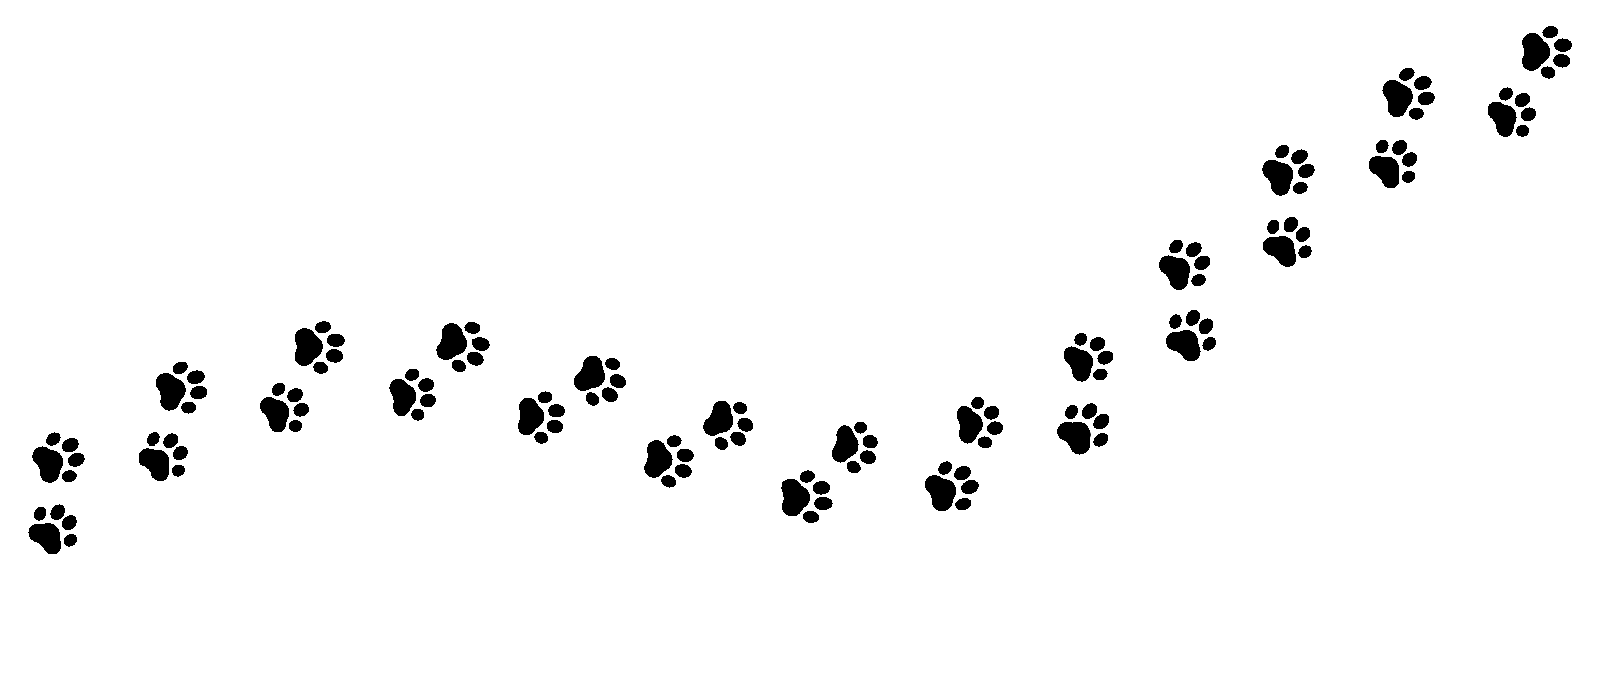
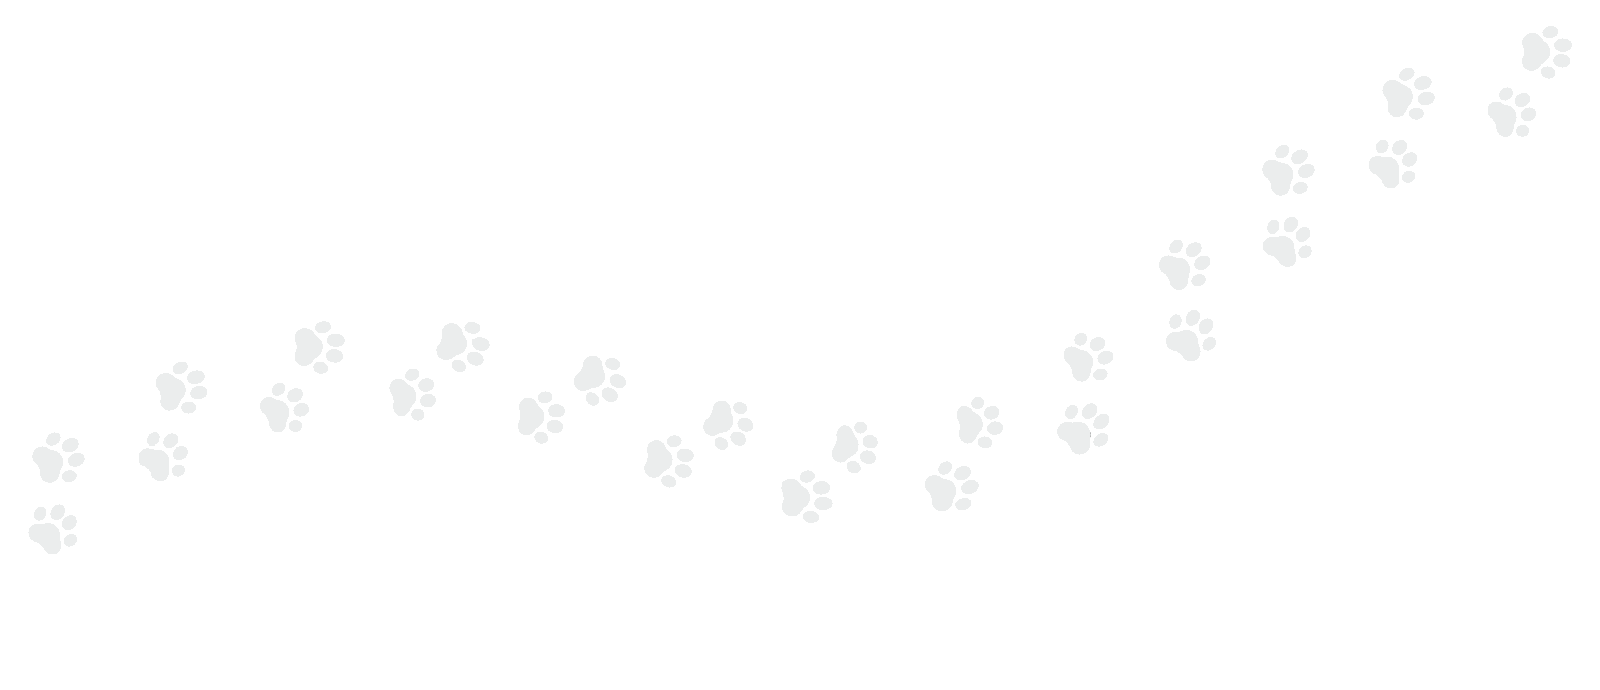
commit 06

diff --git a/PI-Dogs-main/client/src/reducer/reducer.js b/PI-Dogs-main/client/src/reducer/reducer.js
@@ -51,11 +51,14 @@ function rootReducer(state = initialState, action)
             const allDogsTemp= state.allDogs;
             const filteratemp= action.payload==='all'? allDogsTemp:
             allDogsTemp.filter(e=>{
+              
                 if(typeof(e.temperaments)==='string')return e.temperaments.includes(action.payload)
                 if(Array.isArray(e.temperaments)){
                     let filterName= e.temperaments.map(e=> e.name)
                     return filterName.includes(action.payload)
                 }
+               
+               
                
                 return 'no se encontro la raza'
             })
@@ -73,30 +76,30 @@ function rootReducer(state = initialState, action)
             }      
         case 'ORDER':
             const filterOrder=state.allDogs;
-            const order=action.payload ==='all'? state.allDogs: action.payload === 'upward' ? filterOrder.sort((a, b)=>{
+            const order= action.payload === 'falling' ? filterOrder.sort((a, b)=>{
                 if(a.name > b.name){
-                    return 1
+                    return -1
                 }
                 if(b.name > a.name){
-                    return -1
+                    return 1
                 }
                 return 0
             }):filterOrder.sort((a, b)=>{
                 if(a.name > b.name){
-                    return -1
+                    return 1
                 }
                 if(b.name > a.name){
-                    return 1
+                    return -1
                 }
                 return 0
             })
             return{
                 ...state,
-                dogs:order
+                dogs:action.payload ==='all'? state.allDogs:order
             }
         case 'ORDER_WEIGHT':
            
-            const weightOrder= action.payload=== 'min' ? state.allDogs.sort(function(a, b){
+            const weightOrder=action.payload === 'all' ? state.allDogs: action.payload === 'min' ? state.allDogs.sort(function(a, b){
               return parseInt(a.weightMax)- parseInt(b.weightMax)
 
             })
@@ -109,7 +112,7 @@ function rootReducer(state = initialState, action)
             })
             return{
                 ...state,
-                dogs:action.payload=== 'all' ? state.allDogs:weightOrder
+                dogs:weightOrder
             }
 
         default:

diff --git a/PI-Dogs-main/client/src/styles/Home.module.css b/PI-Dogs-main/client/src/styles/Home.module.css
@@ -2,10 +2,10 @@
 
   width: 100%;
   height: 200px;
-  /* overflow: hidden; */
+ /* background-color: rgba(240, 248, 255, 0.423); */
   display: block;
   position: relative;
-  box-shadow: 5px 8px 12px black;
+  box-shadow: 5px 8px 12px rgb(44, 44, 44);
   transition: all 0.3s ease-in-out;
   display: inline-block;
 
@@ -15,37 +15,42 @@
 }
 
 .searchbar {
-  margin-top: 15px;
-  margin-left: 50px;
+
   display: flex;
   flex-wrap: wrap;
-
+/*   background-color: rgba(10, 136, 246, 0.423); */
 
 }
-
+.search{
+  margin: 10px;
+  width: 30%;
+}
 .created {
-
+margin-top: 30px;
+margin-left: 20px;
   position: relative;
   text-decoration: none;
   color: white;
 }
 
 .divContainer {
-  width: 40%;
-  height: 100px;
-
+  margin-top: 30px;
+margin-left: 60px;
+  width: 30%;
+  /* background-color: rgba(255, 240, 252, 0.423); */
   border-radius: 3px;
   color: white;
-
-  display: inline-block;
+  justify-content: end;
+  display: block;
   box-sizing: border-box;
-  margin: 15px 150px;
+
 
   padding: 3px;
 
 }
 
 .link {
+  width: 30%;
   margin: 0;
   text-decoration: none;
 }
@@ -58,7 +63,7 @@
 
 .label {
   width: 80%;
-
+color: rgb(252, 252, 252);
   text-align: left;
 }
 
@@ -71,12 +76,16 @@
 .select {}
 
 .btn {
-  margin: 5px;
+  margin: 35px;
   width: auto;
   height: auto;
 }
 
 .gif {
   margin-top: 20%;
+  margin-left: 23%;
   width: 50%;
+  height: 80%;
+border-radius:46% 54% 48% 52% / 63% 86% 14% 37%  ;
+  box-shadow:0 8px  10px  rgba(251, 252, 252, 0.31);
 }

diff --git a/PI-Dogs-main/client/src/styles/DogDetail.module.css b/PI-Dogs-main/client/src/styles/DogDetail.module.css
@@ -66,11 +66,11 @@ h1{
 .personajes{
     width: 1170px;
     height: 500px;
-    margin:10px 10px 50px;
+   /*  margin:10px 10px 50px; */
     display: flex;
     align-items: center;
     justify-content: center;
-    background-image: url('../image/huesos2.jpg');
+    background-image: url('../image/huellas.png');
     background-repeat:no-repeat;
     background-position-x:center;
     background-position-y:center;
@@ -89,22 +89,29 @@ h1{
         box-shadow: 5px 8px 12px black;
       }
       .contenedorText {
+        width: 400px;
+        height: 349px;
+        
+       
          text-align: center; 
-         padding: 40px;
+         padding: 10px;
          font-family: Arial, Helvetica, sans-serif;
          font-weight: 400;
          line-height: 1.5rem;
          color: rgb(73, 72, 72);
       }
       .name{
+        /* margin: 5px;
+        width: 45%; */
+       margin-top: 0;
         color:white;
         font-size: 1.5rem;
-        font-weight: 600;
-        margin-bottom: 20px;
+       /*  font-weight: 600; */
+      /*   margin-bottom: 20px; */
       }
     .text{
-        width: 400px;
-        height: 349px;
+      /*   */
+      margin: 0%;
         padding: 5px;
     background-color: #f5c565e2;
     border-radius: 10px;

diff --git a/PI-Dogs-main/client/src/components/Home.jsx b/PI-Dogs-main/client/src/components/Home.jsx
@@ -79,9 +79,11 @@ export default function Home()
       !allCharacters?<img src={gif} className={style.gif}  alt='gif'/>:
     <div className={style.searchbar}>
     <Link className={style.link} to='/dogs'><h3 className={style.created}>Create your dog breed</h3></Link>
-    <div id='search'>
+    <div className='search'>
       <SearchBar/>
-      <button className={style.btn} onClick={reloadClick}>Reload</button>
+      <div className={style.btn}>
+      <button  onClick={reloadClick}>Reload</button>
+      </div>
     </div>
     <div className={style.divContainer}>
     <div className={style.filters}>
@@ -110,8 +112,8 @@ export default function Home()
         <label className={style.label}>Order alphabetically  </label>
           <select  className={style.select} name="created" id="dogCreated" onChange={(e)=>orderChange(e)}>
             <option value={'all'}>All the dogs</option>
-            <option value={'upward'}>A-Z</option>
             <option value={'falling'}>Z-A</option>
+            <option value={'upward'}>A-Z</option>
           </select>
         </div>
         <div className={style.filters}>

diff --git a/PI-Dogs-main/client/src/styles/LandingPage.module.css b/PI-Dogs-main/client/src/styles/LandingPage.module.css
@@ -1,25 +1,28 @@
 .contain {
-    margin:0;
-   -webkit-font-smoothing: antialiased;
-    -moz-osx-font-smoothing: grayscale;
-    height: 630px;
-    background-image:url('../image/pexels-andy-7440455\ \(2\)\ \(2\).jpg');
+  width: 100%;
+   /* -webkit-font-smoothing: antialiased;
+    -moz-osx-font-smoothing: grayscale; */
+    height: 100%;
+    background-image:url('../image/dogs.jpg' );
     background-repeat:no-repeat;
-    background-position-x:center;
-    background-position-y:center;
-    background-size:cover; 
+    background-position:center center;
+   background-attachment: fixed;
+    background-size:contain; 
+   position: absolute;
     }
    
  
     .btn {
-     margin-top: 500px;
+     margin-top: 470px;
+     margin-left: 52%;
      border: none;
-     background: #7e3321;
+     position: relative;
+     
      color: rgb(6, 6, 6);
-     width: 75px;
-     height: 35px;
+     width: 90px;
+     height: 55px;
      border-radius: 2px;
-     box-shadow: 5px 8px 12px black;
+     
      transition:all 0.3s ease-in-out ;
                
     }

diff --git a/PI-Dogs-main/client/src/styles/Paginado.module.css b/PI-Dogs-main/client/src/styles/Paginado.module.css
@@ -3,8 +3,8 @@
     width: 100%;
     height: 30px;
     display: block;
-    margin: 15px 10px;
-    
+    margin: 5% 25%;
+    flex-wrap: wrap;
   }
   
   
@@ -22,14 +22,17 @@
     transform: scale(1.1) ;
     border-radius: 2px;
     cursor: pointer;
-    box-shadow: 5px 8px 12px black;
+    box-shadow: 5px 8px 12px #fbbd9724;
     transition:all 0.3s ease-in-out ;
+    display:inline-flex;
+
+    
 }
-/* #miBoton { 
+#miBoton { 
   padding: 30px; 
   background: light-gray; 
-  color: black; 
-}  */
+  color: rgb(248, 243, 243); 
+} 
  
 .btn-visited { 
   padding: 30px; 

diff --git a/PI-Dogs-main/client/src/styles/Dogs.module.css b/PI-Dogs-main/client/src/styles/Dogs.module.css
@@ -9,7 +9,7 @@
     height: 300px;
     overflow: hidden;
     position: relative;
-    box-shadow: 5px 8px 12px black;
+    box-shadow: 5px 8px 12px rgba(148, 148, 148, 0.483);
     cursor: pointer;
     transition: all 0.3s ease-in-out;
     display: inline-block;
@@ -30,7 +30,7 @@
     border-radius: 30px;
     background-image: url('../image/defaultDB.jpg');
     border-radius: 8px;
-    box-shadow: 0 2px 2px rgba(0, 0, 0, 0.2);
+    box-shadow: 0 2px 2px #fbbd973c;
     overflow: hidden;
     margin: 20px;
     text-align: center;

diff --git a/PI-Dogs-main/client/src/components/LandingPage.jsx b/PI-Dogs-main/client/src/components/LandingPage.jsx
@@ -1,13 +1,13 @@
 import React from 'react';
 import { Link } from 'react-router-dom';
 import style from '../styles/LandingPage.module.css'
-
+import img from '../image/hueso.png'
 
 export default function LandingPage(){
     return(
         <div className={style.contain}>
             <Link to='/home' >
-                <button className={style.btn}>START</button>
+                <img src={img} className={style.btn} alt='hueso'/>
             </Link>
           
         </div>

diff --git a/PI-Dogs-main/client/src/components/SearchBar.jsx b/PI-Dogs-main/client/src/components/SearchBar.jsx
@@ -24,7 +24,7 @@ export default function SearchBar()
 
   return (
     <div className={style.searchbar}>
-      <label htmlFor="search by name">Search by name</label>
+      <label className={style.label}>Search by name</label>
       <input key='buscar' type='text' placeholder='Search...' onChange={(e)=>handleChange(e)} />
       <button className={style.btn} type='submit' onClick={(e)=>handleSubmit(e)}>SEARCH</button>
     </div>

diff --git a/PI-Dogs-main/client/src/index.css b/PI-Dogs-main/client/src/index.css
@@ -1,11 +1,13 @@
 
-body {
+html body {
   margin: 0;
+  padding: 0;
+
   font-family: -apple-system, BlinkMacSystemFont, 'Segoe UI', 'Roboto', 'Oxygen',
     'Ubuntu', 'Cantarell', 'Fira Sans', 'Droid Sans', 'Helvetica Neue',
     sans-serif;
- background-color:#4b2523;
- background-image: url('./image/huesos2.jpg');
+    background-color: rgb(0, 0, 0);
+   
 }
 
 code {

diff --git a/PI-Dogs-main/client/src/styles/SearchBar.module.css b/PI-Dogs-main/client/src/styles/SearchBar.module.css
@@ -2,13 +2,19 @@
     width: 100%;
     display: block;
     margin-left: 15px;
-    margin-top: 0;
+    margin-top: 30px;
+    
 
 }
-
+.label {
+    width: 80%;
+    margin: 6px;
+  color: rgb(252, 252, 252);
+    text-align: left;
+  }
 
 .btn {
-    margin: 10;
+    margin: 5px;
     border: none;
     background-color: #fbbd97
         /*  margin:5px;

diff --git a/PI-Dogs-main/client/src/App.js b/PI-Dogs-main/client/src/App.js
@@ -1,4 +1,4 @@
-import './App.css';
+//import './App.css';
 import {BrowserRouter, Route,Routes } from 'react-router-dom'
 import LandingPage from './components/LandingPage';
 import Home from './components/Home';
